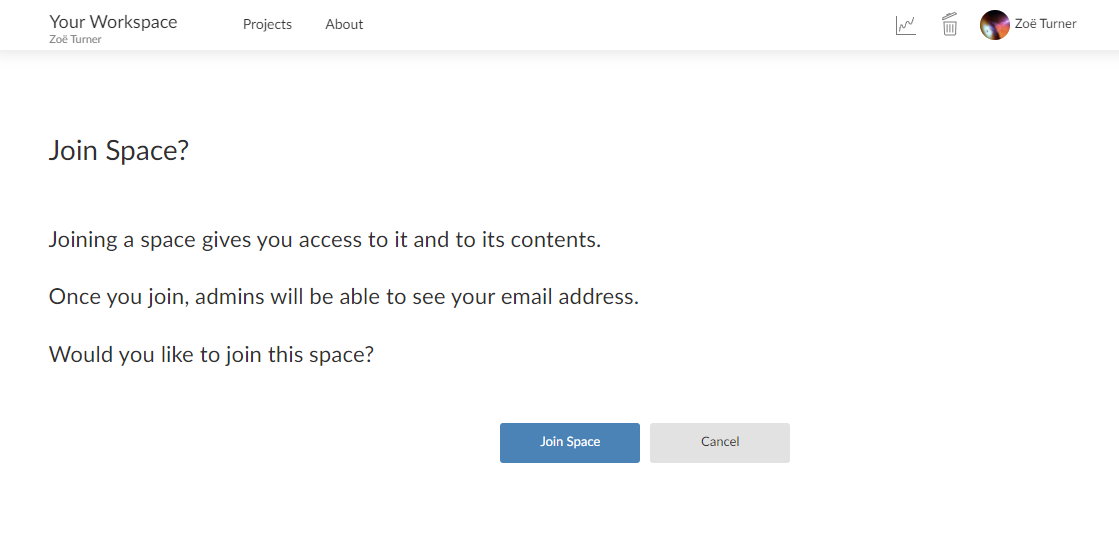
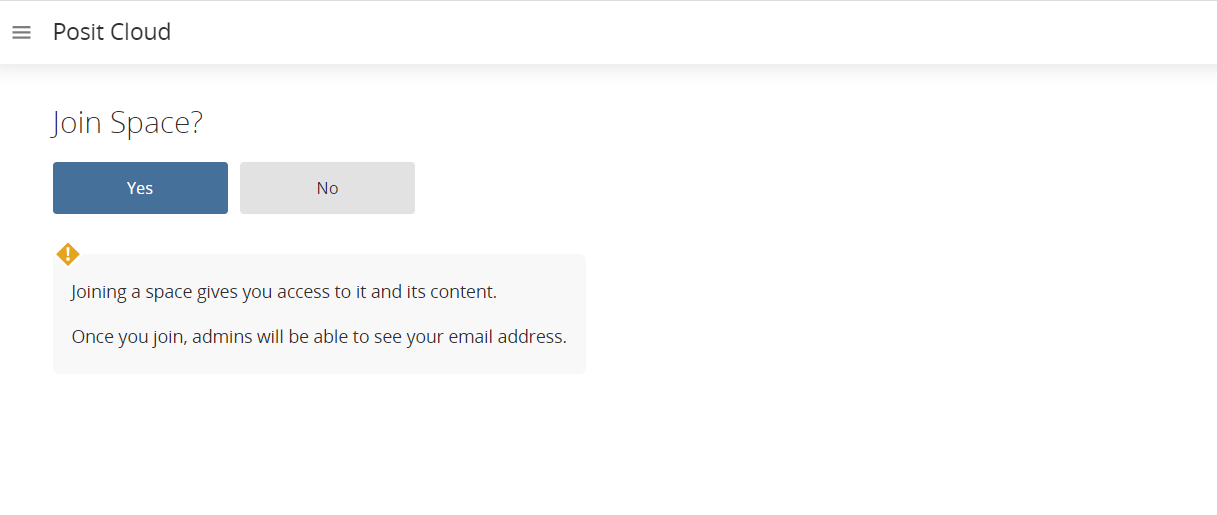
Updated prework about cloud

diff --git a/content/intro-r/nhsr-intro/prework/index.md b/content/intro-r/nhsr-intro/prework/index.md
@@ -23,13 +23,20 @@ When you first log in with the link shared in the email it will take you to an R
 
 ![Screenshot of the workspace view in R Studio Cloud](rstudio-cloud.PNG)
 
-The next screen that loads is a welcome page to the workshop (note that this screenshot is for the Shiny course):
+The next screen that loads is a welcome page to the workshop and the final screen will have a project in it that is called Intro_R_RStudio. When this is selected the project gets copied so you will see both the original Intro_R_RStudio and your own new one called Untitled. Although the word `continue` appears next to the original screen you will open your copy.
 
-![Screenshot of the welcome page after Join Space has been selected](welcome-to-workspace.PNG)
+## Taking the scripts to your own workspace
 
-The final screen looks blank as it will say All Projects but nothing will be listed. If you click on the blue New Project this will start up the project that has all the necessary documents and packages all loaded. It can still take a few minutes to load:
+The workspaces will get cleared every few months to keep them tidy and because access is based on a paid subscription. To move the project you've created to your own Workspace (which is available with the account you set up) select the moving trolley icon:
 
-![Screenshot of the Projects page which will be empty](project.PNG)
+![Screenshot of the project name and to the right 4 icons, the bin for delete, moving trolley, the down arrow to download and three dots in a circle](select-icon-to-move.PNG)
+
+Then select `Your Workspace`. If you've been invited to any other workspace you will also see them in the same Move Content screen:
+
+
+![Screenshot of the Move Content wizard with 3 options, Your Workspace and two others from NHS-R](move-content-menu.PNG)
+
+It's possible to download your files instead by using the down arrow by the Project.
 
 ## If you want to use your own laptop/computer
 
